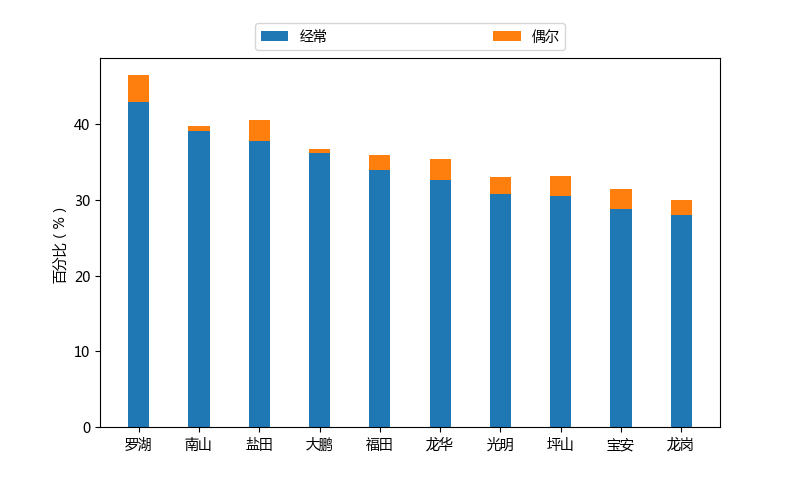
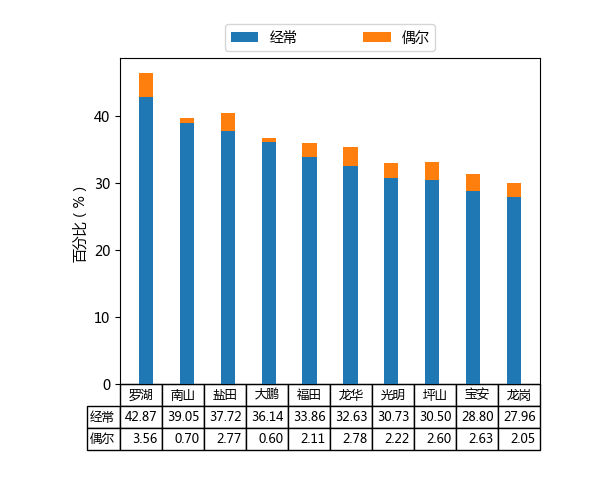
3-5morn

Changed region(s): [[0.06, 0.125, 0.93, 0.9688], [0.3, 0.0312, 0.72, 0.125]]

diff --git a/figureUse.py b/figureUse.py
@@ -493,28 +493,28 @@ def pic3_5(figGen):
     figGen.drawDisease('78',list_a, list_d, labels,"guangdong_yunqianjianchabiao_2017", "all",config.year,
                            isPercent=True, complete=True,picType="bar",figureText="pass",
                            yLable="百分比（%）")
-    # figGen.figureHelper.nfigsize = [8,4.8]
-    # labels = ["女方","男方"]
-    # figGen.drawDiseaseDistrict('79',list_a, list_d, labels,"guangdong_yunqianjianchabiao_2017",config.year,
-    #                        isPercent=True, complete=True,picType="bar",
-    #                        yLable="百分比（%）",hline=False,
-    #                        hasTable=True, figureText="", colorList=[])
-    #
-    # labels = ["女","男"]
-    # figGen.drawDiseaseYear('80',list_a, list_d, labels,"guangdong_yunqianjianchabiao_2017",config.year,2,
-    #                        isPercent=True, complete=True,
-    #                        yLable="百分比（%）")
+    figGen.figureHelper.nfigsize = [8,4.8]
+    labels = ["女方","男方"]
+    figGen.drawDiseaseDistrict('79',list_a, list_d, labels,"guangdong_yunqianjianchabiao_2017",config.year,
+                           isPercent=True, complete=True,picType="bar",
+                           yLable="百分比（%）",hline=False,
+                           hasTable=True, figureText="", colorList=[])
+
+    labels = ["女","男"]
+    figGen.drawDiseaseYear('80',list_a, list_d, labels,"guangdong_yunqianjianchabiao_2017",config.year,2,
+                           isPercent=True, complete=True,
+                           yLable="百分比（%）")
 
 
-    # text_q = '全市平均水平'
-    # figGen.drawDistrict('92',"(is_somke_w=1)","is_somke_w is not null","guangdong_yunqianjianchabiao_2017",config.year,
-    #                        isPercent=True,  complete= True,figureText=text_q,
-    #                         yLable="百分比（%）",colorList=["r"])
-    # figGen.drawDistrict('93',"(is_somke_h=1)","is_somke_h is not null","guangdong_yunqianjianchabiao_2017",config.year,
-    #                        isPercent=True,  complete= True,figureText=text_q,
-    #                         yLable="百分比（%）",colorList=["b"])
+    text_q = '全市平均水平'
+    figGen.drawDistrict('92',"(is_somke_w=1)","is_somke_w is not null","guangdong_yunqianjianchabiao_2017",config.year,
+                           isPercent=True,  complete= True,figureText=text_q,
+                            yLable="百分比（%）",colorList=["r"])
+    figGen.drawDistrict('93',"(is_somke_h=1)","is_somke_h is not null","guangdong_yunqianjianchabiao_2017",config.year,
+                           isPercent=True,  complete= True,figureText=text_q,
+                            yLable="百分比（%）",colorList=["b"])
 
-    list_a = ["is_passive_smoking_w=1","is_passive_smoking_w=2"]
+    list_a = ["is_passive_smoking_w=2","is_passive_smoking_w=1"]
     list_d = ["is_passive_smoking_w is not null","is_passive_smoking_w is not null"]
     labels = ["经常","偶尔"]
     figGen.drawDiseaseDistrict('94',list_a, list_d, labels,"guangdong_yunqianjianchabiao_2017",config.year,
@@ -522,7 +522,7 @@ def pic3_5(figGen):
                            yLable="百分比（%）",hline=False,
                            hasTable=True, figureText="", colorList=[])
 
-    list_a = ["is_passive_smoking_h=1","is_passive_smoking_h=2"]
+    list_a = ["is_passive_smoking_h=2","is_passive_smoking_h=1"]
     list_d = ["is_passive_smoking_h is not null","is_passive_smoking_h is not null"]
     figGen.drawDiseaseDistrict('95',list_a, list_d, labels,"guangdong_yunqianjianchabiao_2017",config.year,
                            isPercent=True, complete=True,picType="stbar",
@@ -534,24 +534,24 @@ def pic3_5(figGen):
     figGen.drawYearDistrict('97',"(is_somke_h=1)","is_somke_h is not null","guangdong_yunqianjianchabiao_2017",config.year,2,
                            isPercent=True, complete=True,yLable="百分比（%）")
 
-    # text_q = '全市平均水平'
-    # figGen.drawDistrict('98',"(is_drink_w=1 or is_drink_w=3)","is_drink_w is not null","guangdong_yunqianjianchabiao_2017",config.year,
-    #                        isPercent=True,  complete= True,figureText=text_q,
-    #                         yLable="百分比（%）",colorList=[])
-    # figGen.drawDistrict('99',"(is_drink_h=1 or is_drink_h=2)","is_drink_h is not null","guangdong_yunqianjianchabiao_2017",config.year,
-    #                        isPercent=True,  complete= True,figureText=text_q,
-    #                         yLable="百分比（%）",colorList=[])
+    text_q = '全市平均水平'
+    figGen.drawDistrict('98',"(is_drink_w=1 or is_drink_w=2)","is_drink_w is not null","guangdong_yunqianjianchabiao_2017",config.year,
+                           isPercent=True,  complete= True,figureText=text_q,
+                            yLable="百分比（%）",colorList=[])
+    figGen.drawDistrict('99',"(is_drink_h=1 or is_drink_h=2)","is_drink_h is not null","guangdong_yunqianjianchabiao_2017",config.year,
+                           isPercent=True,  complete= True,figureText=text_q,
+                            yLable="百分比（%）",colorList=[])
 
-    figGen.drawYearDistrict('100',"(is_drink_w=3)","is_drink_w is not null","guangdong_yunqianjianchabiao_2017",config.year,2,
+    figGen.drawYearDistrict('100',"(is_drink_w=2)","is_drink_w is not null","guangdong_yunqianjianchabiao_2017",config.year,2,
                            isPercent=True, complete=True,yLable="百分比（%）")
     figGen.drawYearDistrict('101',"(is_drink_h=2)","is_drink_h is not null","guangdong_yunqianjianchabiao_2017",config.year,2,
                            isPercent=True, complete=True,yLable="百分比（%）")
 
     text_q = '全市平均水平'
-    # figGen.drawDistrict('102',"(is_harmful_environment_h=1)","is_harmful_environment_h is not null","guangdong_yunqianjianchabiao_2017",config.year,
-    #                        isPercent=True,  complete= True,figureText=text_q,
-    #                         yLable="百分比（%）",colorList=["b"])
-    figGen.drawDistrict('103',"(is_harmful_environment_m=1)","is_harmful_environment_m is not null","guangdong_yunqianjianchabiao_2017",config.year,
+    figGen.drawDistrict('102',"(is_harmful_environment_h=1)","is_harmful_environment_h is not null","guangdong_yunqianjianchabiao_2017",config.year,
+                           isPercent=True,  complete= True,figureText=text_q,
+                            yLable="百分比（%）",colorList=["b"])
+    figGen.drawDistrict('103',"(is_harmful_environment_w=1)","is_harmful_environment_w is not null","guangdong_yunqianjianchabiao_2017",config.year,
                            isPercent=True,  complete= True,figureText=text_q,
                             yLable="百分比（%）",colorList=["r"])
 
@@ -567,12 +567,12 @@ def pic3_5(figGen):
     figGen.drawDisease('104',list_a, list_d, labels,"guangdong_yunqianjianchabiao_2017", "all",config.year,
                            isPercent=True, complete=True,picType="bar",
                            yLable="百分比（%）")
-    list_a = ['harmful_environment_shexian_w=1', 'harmful_environment_zaoyin_w=1',
+    list_a = ['harmful_environment_shexian_w=1', 'harmful_environment_zaosheng_w=1',
               'harmful_environment_qiangongzhongjinshu_w=1',
               'harmful_environment_xinzhuangxiu_w=1', 'harmful_environment_gaowen_w=1',
               'harmful_environment_jiechumaogoushengchu_w=1', 'harmful_environment_zhendong_w=1',
               'harmful_environment_nongyao_w=1']
-    list_d = ['harmful_environment_shexian_w is not null', 'harmful_environment_zaoyin_w is not null',
+    list_d = ['harmful_environment_shexian_w is not null', 'harmful_environment_zaosheng_w is not null',
               'harmful_environment_qiangongzhongjinshu_w is not null',
               'harmful_environment_xinzhuangxiu_w is not null', 'harmful_environment_gaowen_w is not null',
               'harmful_environment_jiechumaogoushengchu_w is not null', 'harmful_environment_zhendong_w is not null',
@@ -581,24 +581,24 @@ def pic3_5(figGen):
                            isPercent=True, complete=True,picType="bar",
                            yLable="百分比（%）")
 
-    list_a = ["(pressure=3 or pressure=4)","(pressure=3 or pressure=4)"]
-    list_d = ["pressure is not null","pressure is not null"]
+    list_a = ["(is_pressure_w between 3 and 4)","(is_pressure_h between 3 and 4)"]
+    list_d = ["is_pressure_w is not null","is_pressure_h is not null"]
     labels = ["女方","男方"]
     figGen.drawDiseaseDistrict('106',list_a, list_d, labels,"guangdong_yunqianjianchabiao_2017",config.year,
                            isPercent=True, complete=True,picType="bar",
                            yLable="百分比（%）",hline=False,
                            hasTable=True, figureText="", colorList=[])
 
-    list_a = ["(economic_pressure=3 or economic_pressure=4)","(economic_pressure=3 or economic_pressure=4)"]
-    list_d = ["economic_pressure is not null","economic_pressure is not null"]
+    list_a = ["(is_economic_pressure_w between 3 and 4)","(is_economic_pressure_h between 3 and 4)"]
+    list_d = ["is_economic_pressure_w is not null","is_economic_pressure_h is not null"]
     labels = ["女方","男方"]
     figGen.drawDiseaseDistrict('107',list_a, list_d, labels,"guangdong_yunqianjianchabiao_2017",config.year,
                            isPercent=True, complete=True,picType="bar",
                            yLable="百分比（%）",hline=False,
                            hasTable=True, figureText="", colorList=[])
 
-    list_a = ["(tense_relationship=3 or tense_relationship=4)","(tense_relationship=3 or tense_relationship=4)"]
-    list_d = ["tense_relationship is not null","tense_relationship is not null"]
+    list_a = ["(is_relationship_tense between 3 and 4)","(is_relationship_tense_h between 3 and 4)"]
+    list_d = ["is_relationship_tense is not null","is_relationship_tense_h is not null"]
     labels = ["女方","男方"]
     figGen.drawDiseaseDistrict('108',list_a, list_d, labels,"guangdong_yunqianjianchabiao_2017",config.year,
                            isPercent=True, complete=True,picType="bar",
@@ -606,19 +606,19 @@ def pic3_5(figGen):
                            hasTable=True, figureText="", colorList=[])
 
 
-    figGen.drawYearDistrict('109',"(pressure=3 or pressure=4)","pressure is not null","guangdong_yunqianjianchabiao_2017",config.year,2,
+    figGen.drawYearDistrict('109',"(is_pressure_h between 3 and 4)","is_pressure_h is not null","guangdong_yunqianjianchabiao_2017",config.year,2,
                            isPercent=True, complete=True,yLable="百分比（%）")
-    figGen.drawYearDistrict('110',"(pressure=3 or pressure=4)","pressure is not null","guangdong_yunqianjianchabiao_2017",config.year,2,
-                           isPercent=True, complete=True,yLable="百分比（%）")
-
-    figGen.drawYearDistrict('111',"(economic_pressure=3 or economic_pressure=4)","economic_pressure is not null","guangdong_yunqianjianchabiao_2017",config.year,2,
-                           isPercent=True, complete=True,yLable="百分比（%）")
-    figGen.drawYearDistrict('112',"(economic_pressure=3 or economic_pressure=4)","economic_pressure is not null","guangdong_yunqianjianchabiao_2017",config.year,2,
+    figGen.drawYearDistrict('110',"(is_pressure_w between 3 and 4)","is_pressure_w is not null","guangdong_yunqianjianchabiao_2017",config.year,2,
                            isPercent=True, complete=True,yLable="百分比（%）")
 
-    figGen.drawYearDistrict('113',"(tense_relationship=3 or tense_relationship=4)","tense_relationship is not null","guangdong_yunqianjianchabiao_2017",config.year,2,
+    figGen.drawYearDistrict('111',"(is_economic_pressure_h between 3 and 4)","is_economic_pressure_h is not null","guangdong_yunqianjianchabiao_2017",config.year,2,
                            isPercent=True, complete=True,yLable="百分比（%）")
-    figGen.drawYearDistrict('114',"(tense_relationship=3 or tense_relationship=4)","tense_relationship is not null","guangdong_yunqianjianchabiao_2017",config.year,2,
+    figGen.drawYearDistrict('112',"(is_economic_pressure_w between 3 and 4)","is_economic_pressure_w is not null","guangdong_yunqianjianchabiao_2017",config.year,2,
+                           isPercent=True, complete=True,yLable="百分比（%）")
+
+    figGen.drawYearDistrict('113',"(is_relationship_tense_h between 3 and 4)","is_relationship_tense_h is not null","guangdong_yunqianjianchabiao_2017",config.year,2,
+                           isPercent=True, complete=True,yLable="百分比（%）")
+    figGen.drawYearDistrict('114',"(is_relationship_tense between 3 and 4)","is_relationship_tense is not null","guangdong_yunqianjianchabiao_2017",config.year,2,
                            isPercent=True, complete=True,yLable="百分比（%）")
 
 def pic3_1(figGen):
@@ -686,7 +686,7 @@ def pic3_1(figGen):
 
 def pic3_6(figGen):
 
-    list_a = ['(is_eat_meat_egg_w=0)', 'is_anorexia_vegetables_w=1)', '(is_eat_raw_meat_w=1)']
+    list_a = ['(is_eat_meat_egg_w=0)', '(is_anorexia_vegetables_w=1)', '(is_eat_raw_meat_w=1)']
     list_d = ['', '', '', '']
     labels = ["素食者", '厌食蔬菜', "食用生肉"]
     figGen.drawDiseaseDistrict('81', list_a, list_d, labels, "guangdong_yunqianjianchabiao_2017", config.year,
@@ -694,7 +694,7 @@ def pic3_6(figGen):
                                yLable="百分比（%）", hline=False,
                                hasTable=True, figureText="", colorList=[],gridcol=(24,21))
 
-    list_a = ['(is_eat_meat_egg_h=0)', 'is_anorexia_vegetables_h=1)', '(is_eat_raw_meat_h=1)']
+    list_a = ['(is_eat_meat_egg_h=0)', '(is_anorexia_vegetables_h=1)', '(is_eat_raw_meat_h=1)']
     list_d = ['', '', '', '']
     labels = ["素食者", '厌食蔬菜', "食用生肉"]
     figGen.drawDiseaseDistrict('82', list_a, list_d, labels, "guangdong_yunqianjianchabiao_2017", config.year,
@@ -702,14 +702,14 @@ def pic3_6(figGen):
                                yLable="百分比（%）", hline=False,
                                hasTable=True, figureText="", colorList=[],gridcol=(24,21))
 
-    list_a = ['(is_eat_meat_egg_w=0)', 'is_anorexia_vegetables_w=1)', '(is_eat_raw_meat_w=1)']
+    list_a = ['(is_eat_meat_egg_w=0)', '(is_anorexia_vegetables_w=1)', '(is_eat_raw_meat_w=1)']
     list_d = ['', '', '', '']
     labels = ["素食者", '厌食蔬菜', "食用生肉"]
     figGen.drawDiseaseYear('83', list_a, list_d, labels, "guangdong_yunqianjianchabiao_2017", config.year, 2,
                            isPercent=True, complete=True,
                            yLable="百分比（%）")
 
-    list_a = ['(is_eat_meat_egg_h=0)', 'is_anorexia_vegetables_h=1)', '(is_eat_raw_meat_h=1)']
+    list_a = ['(is_eat_meat_egg_h=0)', '(is_anorexia_vegetables_h=1)', '(is_eat_raw_meat_h=1)']
     list_d = ['', '', '', '']
     labels = ["素食者", '厌食蔬菜', "食用生肉"]
     figGen.drawDiseaseYear('84', list_a, list_d, labels, "guangdong_yunqianjianchabiao_2017", config.year, 2,

diff --git a/FiguresHelper.py b/FiguresHelper.py
@@ -102,11 +102,19 @@ class FigureHelper:
     # yLabel: y轴标签，可为空
     # TODO: 调整字体大小
     def stackedBarPlotWithTable(self,dataList, dataLabelList, xAxisLabelList,
-                                xLable=None,yLabel=None,gridcol=(12,11)):
+                                xLable=None,yLabel=None,gridcol=(12,11),isPercent=True):
         figureId = self.stackedBarPlot(dataList, dataLabelList, xAxisLabelList,
                                        xLable=xLable, yLabel=yLabel, gridcol=gridcol)
 
-        table = plt.table(cellText=dataList,
+        case_cnt = len(dataList)  # 颜色组
+        cellText = []
+        for i in range(0, case_cnt):
+            if isPercent:
+                cellApp = [("%.2f" % x) for x in dataList[i]]
+            else:
+                cellApp = [("%d" % x) for x in dataList[i]]
+            cellText.append(cellApp)
+        table = plt.table(cellText=cellText,
                           rowLabels=dataLabelList,
                           colLabels=xAxisLabelList,
                           loc='bottom')
@@ -121,14 +129,22 @@ class FigureHelper:
     # dataLabelList: 与dataList相对应的标签，被用作图例
     # xAxisLabelList: x轴标签
     def stackedBarPlotWithPercentage(self,dataList, dataLabelList, xAxisLabelList,
-                                     xLable=None,yLabel=None,gridcol=(12,11),hasTable=False):
+                                     xLable=None,yLabel=None,gridcol=(12,11),hasTable=False,isPercent=True):
         figureId = self.stackedBarPlot(dataList, dataLabelList, xAxisLabelList,
                                        xLable=xLable, yLabel=yLabel, gridcol=gridcol)
         plt.figure(figureId)
         yIndex = np.arange(0, 110, 10)
         plt.yticks(yIndex, list(map(lambda x: "%d%%" % x, yIndex)))
         if hasTable:
-            table = plt.table(cellText=dataList,
+            case_cnt = len(dataList)  # 颜色组
+            cellText = []
+            for i in range(0, case_cnt):
+                if isPercent:
+                    cellApp = [("%.2f" % x) for x in dataList[i]]
+                else:
+                    cellApp = [("%d" % x) for x in dataList[i]]
+                cellText.append(cellApp)
+            table = plt.table(cellText=cellText,
                               rowLabels=dataLabelList,
                               colLabels=xAxisLabelList,
                               loc='bottom')
@@ -256,6 +272,7 @@ class FigureHelper:
     # vline 是否带横线，TRUE表示带均值横线，包括两条
     # hasTable 是否带表格，TRUE表示带表格
     # figureText: 长度为0表示不添加文字 ，否则添加“：数值”
+    # isPercent 用于表示显示的数字是否为小数 包括矩形上面的和表格中的，表格中保留2位小数点
     def compoundBarPlot(self,dataList, dataLabelList, xAxisLabelList, xLable=None, yLable='百分比（%）',
                         hline = False, hasTable = False,figureText = "",colorList = [],
                         isPercent=True,indent = False,gridcol=(12,11)):
@@ -339,8 +356,16 @@ class FigureHelper:
                        ncol=len(dataLabelList), mode="expand", borderaxespad=0.)
 
         if hasTable:
+            cellText=[]
+            for i in range(0, case_cnt):
+                if isPercent:
+                    cellApp = [("%.2f" % x) for x in dataList[i]]
+                else:
+                    cellApp = [("%d" % x) for x in dataList[i]]
+                cellText.append(cellApp)
 
-            table = plt.table(cellText=[float("%.2f" %x) for x in dataList],
+
+            table = plt.table(cellText=cellText,
                               rowLabels=dataLabelList,
                               colLabels=xAxisLabelList,
                               loc='bottom',

diff --git a/figureGenerate.py b/figureGenerate.py
@@ -241,9 +241,10 @@ class figureGenerate:
                 p = self.figureHelper.stackedBarPlot(dataList, dataLabelList, xAxisLabelList, xLable, yLable,gridcol)
             elif mainType == "spbar":
                 p = self.figureHelper.stackedBarPlotWithPercentage(dataList, dataLabelList, xAxisLabelList, xLable,
-                                                                   yLable,gridcol,hasTable=hasTable)
+                                                                   yLable,gridcol,hasTable=hasTable,isPercent=isPercent)
             elif mainType == "stbar":
-                p = self.figureHelper.stackedBarPlotWithTable(dataList, dataLabelList, xAxisLabelList, xLable, yLable,gridcol)
+                p = self.figureHelper.stackedBarPlotWithTable(dataList, dataLabelList, xAxisLabelList, xLable,
+                                                              yLable,gridcol,isPercent=isPercent)
             elif mainType == "hbar":
                 p = self.figureHelper.horizontalBarPlot(dataList, dataLabelList, xAxisLabelList, xLable, yLable, colorList)
             elif mainType == "hsbar":
